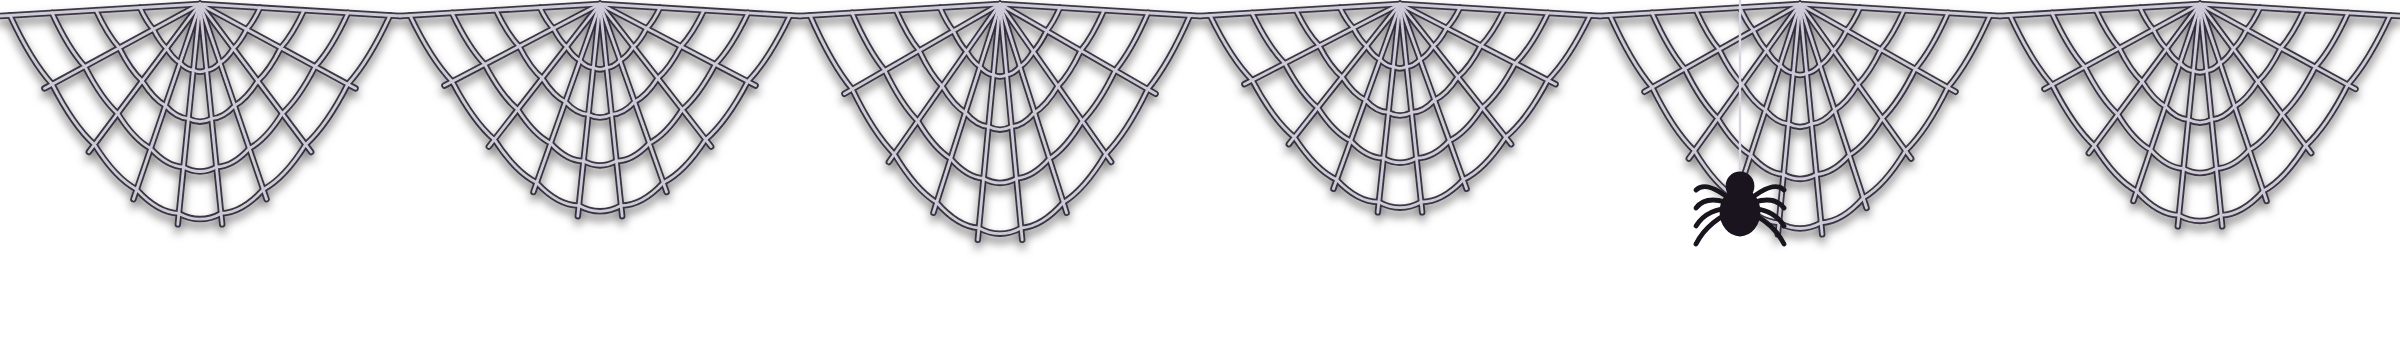
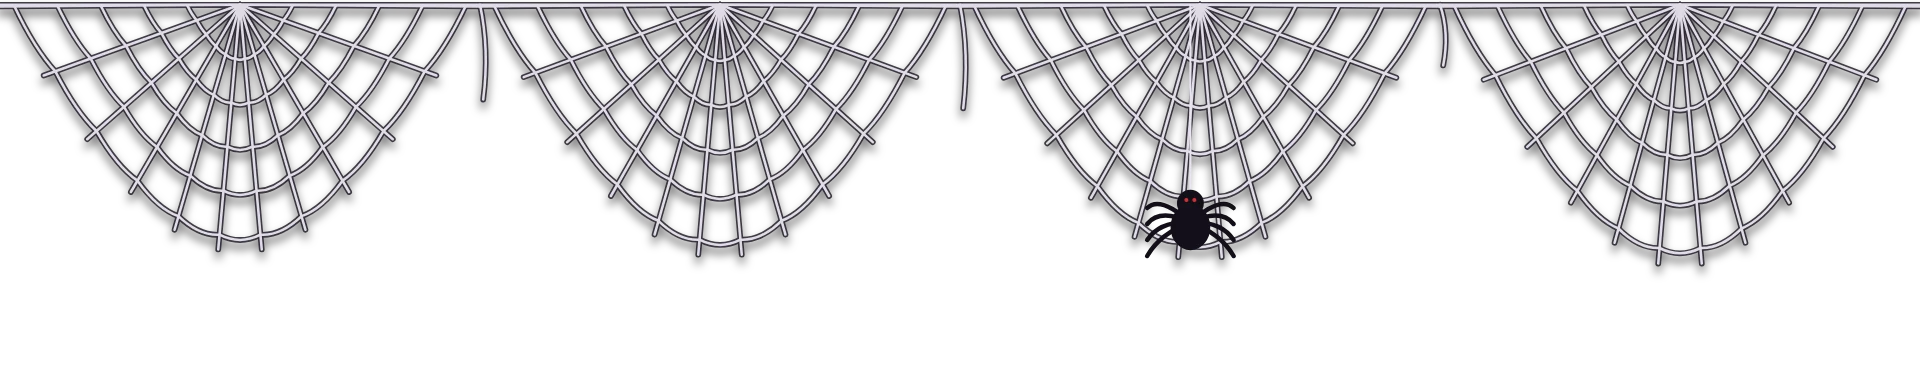
Паутина от угла до угла
Claude-Session: https://claude.ai/code/session_01PzqJVeGRiGc4Rz8wFXAaG3

diff --git a/style.css b/style.css
@@ -595,3 +595,4 @@ html.nogap .ep + .ep { margin-top: 8px; }
 @keyframes blinkA { 0%, 100% { opacity: 1; } 50% { opacity: 0.15; } }
 .deco-web { transform: translateY(96%); }
 .film.has-bd { z-index: 6; }
+.deco-web { left: 0; width: 100%; transform: translateY(98%); }

diff --git a/mobile.css b/mobile.css
@@ -214,3 +214,4 @@ html.web body { min-height: 100vh; min-height: 100dvh; }
   html.web .deco { width: 220%; left: -60%; }
   html.web #main { overflow-x: hidden; }
 }
+@media (max-width: 900px) { html.web .deco.deco-web { width: 100%; left: 0; } }
